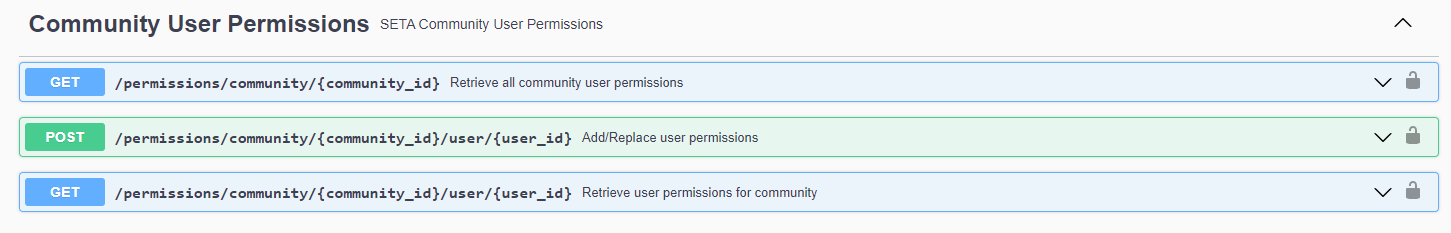
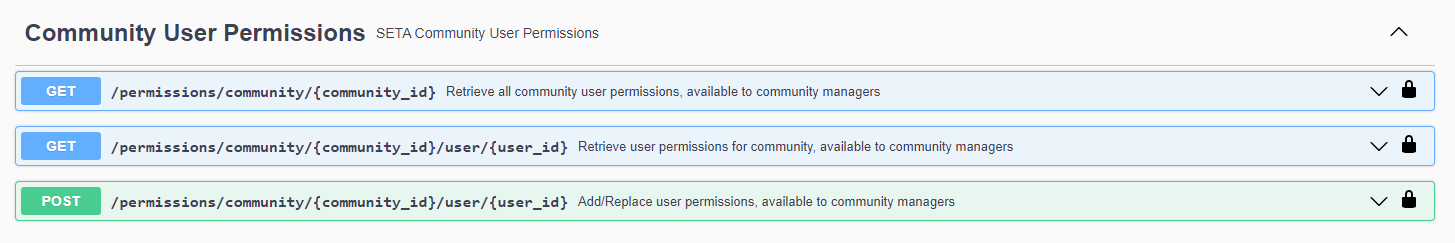
update of communities.md

diff --git a/seta-doc/docs/apis/communities_api/seta_api_communities.md b/seta-doc/docs/apis/communities_api/seta_api_communities.md
@@ -19,7 +19,6 @@ The main categories are:
 
         
 
- 
 ## Communities
 
 The Communities section is the related to the creation, retrieve, update and delete the communities.                   
@@ -40,10 +39,9 @@ Create a new community and add this user as a member with elevated scopes.
 Retrieve community, if user is a member of it.    
 
 
-
 **DELETE /communities/{id}**      
-
 Delete community entries.     
+
 
 **PUT /communities/{id}**     
 Update community fields.
@@ -68,14 +66,12 @@ Retrieve all change requests for a community
 Add new change request for a community field.    
 
 
-**GET /communities/{community_id}/change-requests/{request_id}**      
-
+**GET /communities/{community_id}/change-requests/{request_id}**            
 Retrieve change request for the community.     
 
 
 
-**PUT /communities/{community_id}/change-requests/{request_id}**     
-
+**PUT /communities/{community_id}/change-requests/{request_id}**        
 Approve/reject request  
 
 
@@ -86,144 +82,194 @@ Approve/reject request
 
 ## Community Memberships
 
+**GET /communities/{community_id}/memberships**                       
+Retrieve community memberships, available to any member of this community.                            
+
+
 **POST  /communities/{community_id}/memberships**    
-Add new member to an opened community.    
-<!--
+Create a member for an opened community, available to any user.    
 
-<figure markdown>
-![Image title](/docs/img/post_communities_community_id_memberships.png){ width="900" }
-<figcaption>POST /communities{community_id} memberships</figcaption>
-</figure>
- -->
 
-**GET /communities/{community_id}/memberships**    
-Retrieve membership list for this community.
+**GET /communities/{community_id}/memberships/{user_id}**        
+Retrieve membership, available to community managers.                               
 
 
 **DELETE /communities/{community_id}/memberships/{user_id}**     
-
-Remove membership.
-
-
-**GET /communities/{community_id}/memberships/{user_id}**    
-Retrieve user membership
+Remove a membership, available to community managers.                           
 
 
 **PUT /communities/{community_id}/memberships/{user_id}**     
-Update membership fields.
-
-
-**POST  /communities/{community_id}/requests**    
-Add new request for the community for the authorized user.    
-
-
-**GET /communities/{community_id}/requests**      
-Retrieve request list for this community.
-
-
-
-**GET /communities/{community_id}/requests/{user_id}**      
-Retrieve user request for the community.
-
-
-**PUT /communities/{community_id}/requests/{user_id}**      
-Approve/reject request.
+Update a community membership, available to community managers.                      
 
 <figure markdown>
-![Image title](/docs/img/seta_api_communities_memberships.png){ width="900" }
+![Image title](/docs/img/seta_api_communities_memberships.png)
 <figcaption> Community Memberships</figcaption>
 </figure>
 
+## Community Membership Requests
+
+**GET /communities/{community_id}/requests**      
+Retrieve pending community requests, available to community managers.                         
+
+**POST  /communities/{community_id}/requests**    
+Create a community membership request, available to any user.    
+
+
+**GET /communities/{community_id}/requests/{user_id}**      
+Retrieve user request, available to community managers.                          
+
+**PUT /communities/{community_id}/requests/{user_id}**                
+Approve/reject a membership request, available to community managers.                       
+
+<figure markdown>
+![Image title](/docs/img/seta_api_communities_membership_request.png)
+<figcaption> Community Membership Requests</figcaption>
+</figure>
+
+## Community My Membership 
+**GET /communities/membership-requests**                    
+Retrieve my membership requests, available to any user.                     
+
+**GET /communities/{community_id}/membership**       
+Retrieve membership, available to community managers.
+
+**DELETE /communities/{community_id}/membership**     
+Remove a membership, available to any community member.
+
+
+<figure markdown>
+![Image title](/docs/img/seta_api_communities_my_membership.png)
+<figcaption> Community My Membership</figcaption>
+</figure>
+
+
+
 ## Community Invites
 
-**POST  /communities/{community_id}/invites**    
-Create new invites.    
-
 **GET /communities/{community_id}/invites**       
+Retrieve pending invites, available to community managers.
 
-Retrieve pending invites for this community.
+
+**POST /communities/{community_id}/invites**    
+Create invites, available to community managers.     
+
+
+## Community Resources
+
+**GET /communities/{community_id}/resources**       
+Retrieve community resources, available to any user.
+
+
+**POST /communities/{community_id}/resources**    
+Create resource, available to community members.     
+
+<figure markdown>
+![Image title](/docs/img/seta_api_communities_invites.png)
+<figcaption>Community Invites and Community Resources</figcaption>
+</figure>
 
 
 
 ## Invites
 
+**GET /invites/**      
+Retrieve my pending invites, available to any user. 
+
+
 **GET /invites/{invite_id}**      
-Retrieve invite.    
+Retrieve invite, available to initiator and invitee.    
 
 **PUT /invites/{invite_id}**       
-
-Update an invite. Accept/reject invite.     
-
-<figure markdown>
-![Image title](/docs/img/seta_api_communities_invites.png){ width="900" }
-<figcaption> Community Invites</figcaption>
-</figure>
+Update an invite, available to invitee.     
 
 
 ## Resources
-**POST  /resources/community/{community_id}**    
-Create new resource por given community.    
-
-
-**GET  /resources/community/{community_id}**    
-Retrieve resources for a given community.  
-
-
-**DELETE  /resources/{id}**    
-Delete all resource entries.  
+**GET /resources/**   
+Retrieve list of accessible resources for this authorized user.             
 
 **GET /resources/{id}**   
-Retrieve resource.
+Retrieve resource, available to any user.
+
+**DELETE /resources/{id}**    
+Delete resource, available to resource editor and community managers.  
 
 **PUT /resources/{id}**      
-
-Update resource fields.
-
-## Resource Contributors
-
-**POST  /resources/{resource_id}/contributors**    
-Create new contributor por given resource.    
+Update a resource, available to resource editor and community managers.                  
 
 
-**GET /resources/{resource_id}/contributors**      
-Retrieve contributors of a given resource.
+
+<figure markdown>
+![Image title](/docs/img/communities_api_invites_resources.png)
+<figcaption>Invites and  Resources</figcaption>
+</figure>
+
 
 ## Resource Change Requests
 
 **GET /resources/change-requests/pending**      
+Retrieve all pending change requests for resources, available to sysadmins.                 
 
-Retrieve pending change requests for resources.
+
+**GET  /resources/{resource_id}/change-requests**    
+Retrieve all change requests for a resource, available to community managers and resource editors.                  
 
 **POST  /resources/{resource_id}/change-requests**    
-Add new change request for a resource field.   
+Create a resource change request, available to resource editors.   
 
 
 **GET  /resources/{resource_id}/change-requests/{request-id}**    
-Retrieve change request for the resource. 
-
+Retrieve resource request, available to syadmins and initiator.                  
 
 
 **PUT  /resources/{resource_id}/change-requests/{request-id}**    
-Approve/reject request
+Update a change request for resource, available to sysadmins.
+
 
 <figure markdown>
-![Image title](/docs/img/seta_api_communities_resources.png){ width="900" }
-<figcaption>Resources, Contributors, Change Requests</figcaption>
+![Image title](/docs/img/seta_api_communities_resource_change_request.png)
+<figcaption>Resources Change Requests</figcaption>
 </figure>
+
+
 
 ## Community User Permissions
 
 **GET  /permissions/community/{community_id}**    
-Retrieve user-scope list for given community. 
-
-**POST  /permissions/community/{community_id}/user/{user-id}**    
-Replace all user permissions for the community. 
+Retrieve all community user permissions, available to community managers.                    
 
 **GET  /permissions/community/{community_id}/user/{user-id}**    
-Retrieve user-scopes for given community. 
+Retrieve user permissions for community, available to community managers.                
+
+**POST  /permissions/community/{community_id}/user/{user-id}**    
+Add/Replace user permissions, available to community managers.                    
 
 <figure markdown>
-![Image title](/docs/img/seta_api_communities_usr_permissions.png){ width="900" }
+![Image title](/docs/img/seta_api_communities_usr_permissions.png)
 <figcaption>Community User Permissions</figcaption>
 </figure>
 
+## Resource User Permissions
+
+**GET  /permissions/resource/{resource_id}**    
+Retrieve all resource permissions, available to community managers.                    
+
+**GET /permissions/resource/{resource_id}/user/{user-id}**    
+Retrieve user permissions for resource, available to community managers.                
+
+**POST /permissions/resource/{resource_id}/user/{user-id}**    
+Add/Replace user permissions, available to community managers.                    
+
+
+## Discovery
+
+**GET  /discovery/communities**    
+Discover communities, accesbile to any user.                    
+
+**GET /discovery/resources**    
+Discover resources, accesible to any user.                
+
+
+<figure markdown>
+![Image title](/docs/img/seta_api_communities_resource_discovery.png)
+<figcaption>Resource User Permissions and Discovery</figcaption>
+</figure>
